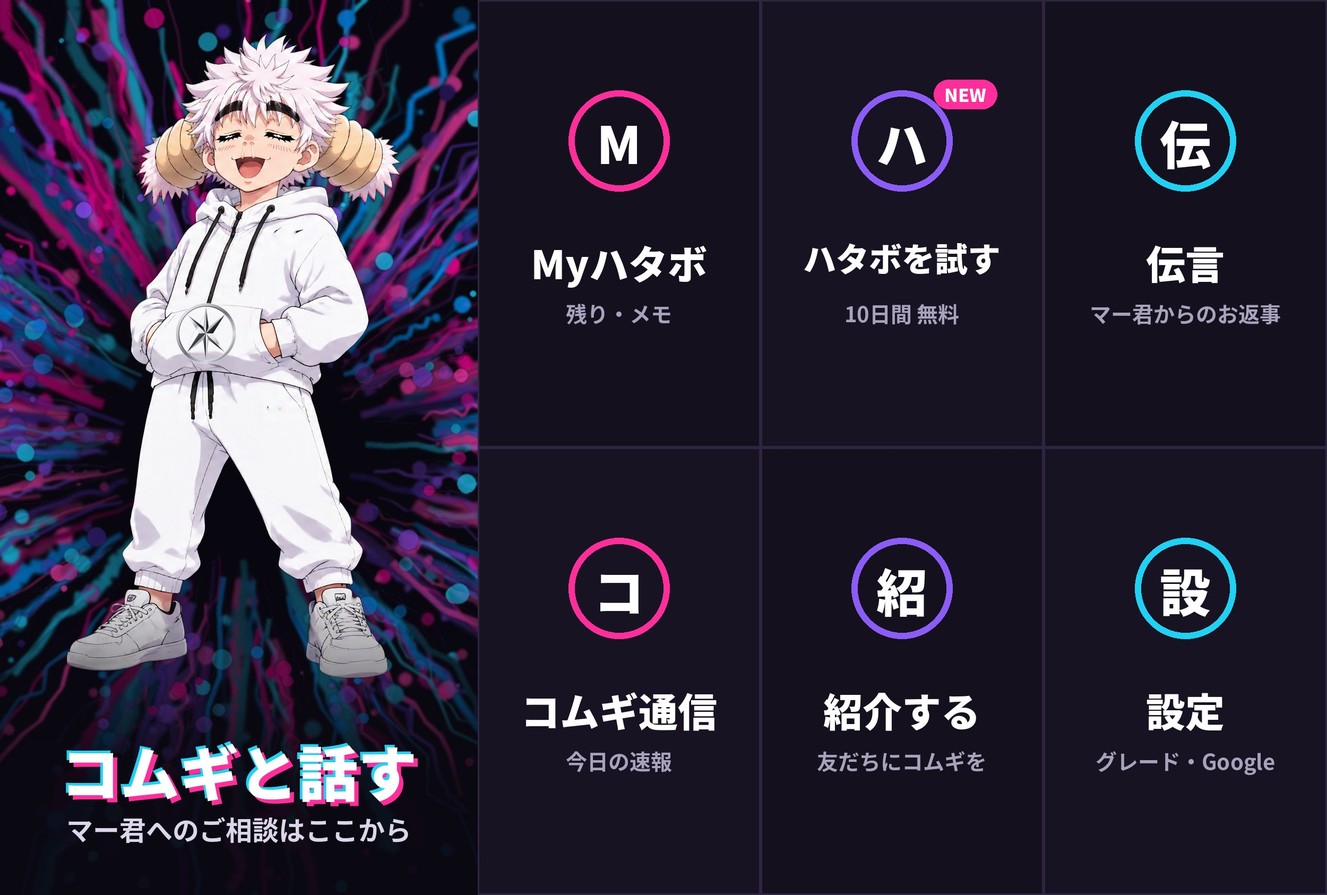
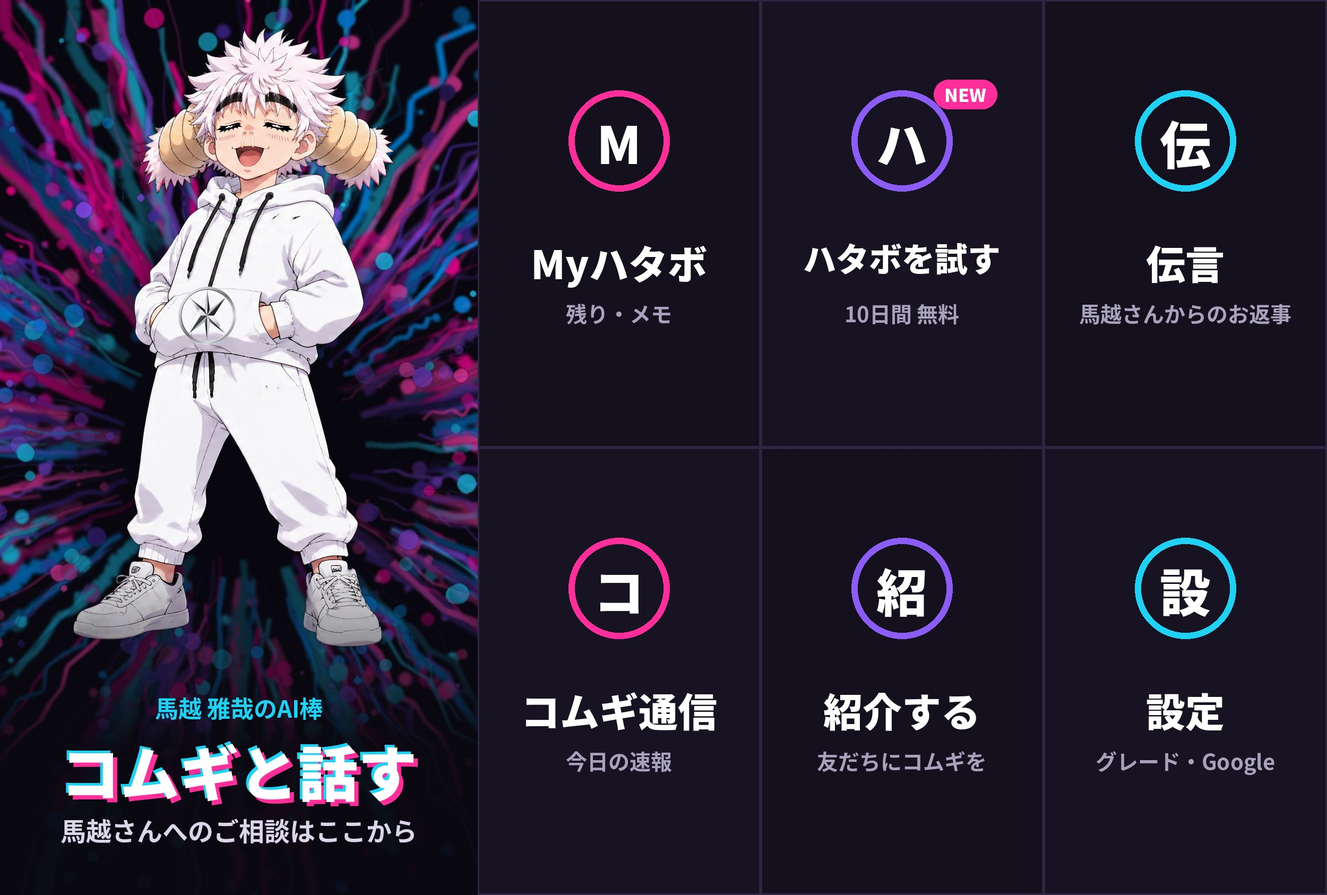
外向けはLINEの名前に合わせて「馬越 雅哉さんのAI棒」「馬越さん」で統一（コムギの話す言葉・あいさつ・グループのカード・紹介カード・リッチメニュー）。本人と話すときは「マー君」と呼んでよい (#64)
Claude-Session: https://claude.ai/code/session_01GDag5DFiuruMVMr8LD2DGj

diff --git a/butter/server/server.js b/butter/server/server.js
@@ -38,7 +38,7 @@ const ENV = {
   DAILY_LIMIT_NOREF: Number(process.env.DAILY_LIMIT_NOREF || 10),   // 紹介コードなしで来た人
   GUEST_TOTAL_LIMIT: Number(process.env.GUEST_TOTAL_LIMIT || 300),  // 窓口ぜんぶで1日に答える回数
   SESSION_MAX_MIN: Number(process.env.SESSION_MAX_MIN || 60), // 1回のつなぎっぱなしの上限
-  // コムギ（マー君）：窓口の役割に「コムギ」と書いた窓口は、見た目がコムギになる
+  // コムギ（馬越さん）：窓口の役割に「コムギ」と書いた窓口は、見た目がコムギになる
   KOMUGI_REFS: (process.env.KOMUGI_REFS || '').split(',').map(s => s.trim()).filter(Boolean),   // コムギの紹介コード（ここから来た人はコムギ通信つき）
   HATABO_VOICE: process.env.HATABO_VOICE || 'ja-JP-Chirp3-HD-Puck',   // ハタボの声：明るく元気な、ひよこの男の子（ジュニアのガラガラ声とは別）
   KOMUGI_VOICE: process.env.KOMUGI_VOICE || 'ja-JP-Chirp3-HD-Leda',   // コムギの声：やわらかい少女の声
@@ -55,8 +55,8 @@ const ENV = {
   // サイトから来た人（?ref=site など）は、汎用のハタボをスーパー上位で（長文もClaudeと同じように）
   SUPER_REFS: (process.env.SUPER_REFS || 'site').split(',').map(s => s.trim().toLowerCase()).filter(Boolean),
   SUPER_OWNERS: (process.env.SUPER_OWNERS || '').split(',').map(s => s.trim()).filter(Boolean),
-  MAC_OWNERS: (process.env.MAC_OWNERS || '').split(/[,\s]+/).map(s => s.trim()).filter(Boolean),   // マー君のLINEのID（「g:」つきでもなしでも。期限は最後に「:YYYY-MM-DD」）。コムギを制限なしで使える・紹介の手数料の受け取り手
-  BRIDGE_DAILY: Number(process.env.BRIDGE_DAILY || 20),   // マー君の紹介でコムギと話す人の1日の回数（契約したらグレードの回数）
+  MAC_OWNERS: (process.env.MAC_OWNERS || '').split(/[,\s]+/).map(s => s.trim()).filter(Boolean),   // 馬越さんのLINEのID（「g:」つきでもなしでも。期限は最後に「:YYYY-MM-DD」）。コムギを制限なしで使える・紹介の手数料の受け取り手
+  BRIDGE_DAILY: Number(process.env.BRIDGE_DAILY || 20),   // 馬越さんの紹介でコムギと話す人の1日の回数（契約したらグレードの回数）
 };
 /** 期限つきでスーパー上位を使える人か */
 function idUntil(list, owner) {
@@ -68,11 +68,11 @@ function idUntil(list, owner) {
   }
   return '';
 }
-/** 期限つきでスーパー上位を使える人か（マー君も、検証のあいだは制限なし） */
+/** 期限つきでスーパー上位を使える人か（馬越さんも、検証のあいだは制限なし） */
 const superUntil = owner => idUntil(ENV.SUPER_OWNERS, owner) || idUntil(ENV.MAC_OWNERS, owner);
-/** マー君本人か */
+/** 馬越さん本人か */
 const isMac = owner => !!idUntil(ENV.MAC_OWNERS, owner);
-/** マー君の紹介コード（マー君あての伝言・案件・手数料の行き先） */
+/** 馬越さんの紹介コード（馬越さんあての伝言・案件・手数料の行き先） */
 const macRefs = () => ENV.MAC_OWNERS.map(x => String(x).replace(/:\d{4}-\d{2}-\d{2}$/, '').replace(/^g:/, '')).filter(Boolean).map(id => myRefOf('g:' + id));
 
 // 料金プランのおためし（ヒロさんの家族の画面だけ）：同じ質問を3つの賢さで聞きくらべる
@@ -102,11 +102,11 @@ const HEAR_FIX = [
   [/(?:あいまつり|愛まつり|AI祭り|AIまつり)/gi, '愛祭'],
   [/(?:あたご|アタゴ|はたご|ハタゴ|畑葉|はたば|ハタバ|はたぼう|ハタボウ|はたぼー|はたぼ|旗ボ|旗棒|畑ぼ|波多ボ|ハタホ|はたほ)(?=って|っ|[さくちゃんにのはがをとへでも、。？！!?\s]|$)/g, 'ハタボ'],
   [/(?:こむぎ|小麦)(?=[ちゃんさにのはがをと、。？！!?\s]|$)/g, 'コムギ'],
-  [/(?:まーくん|マークン|マー君さん|まあくん)/g, 'マー君'],
+  [/(?:まーくん|マークン|馬越さんさん|まあくん)/g, '馬越さん'],
 ];
 const hearFix = t => HEAR_FIX.reduce((x, [re, to]) => x.replace(re, to), String(t || ''));
 // あいまいな言い方や聞き間違いを、Claudeのように話の流れからくみ取る
-const HEAR_RULE = '\n\n【聞き取りのくせ】相手の言葉は声の文字起こしなので、音の近い言葉への聞き間違い（例：ハタボ→あたご・畑葉、AI棒→相棒、コムギ→小麦）や、言いさし・言い直しがまじる。おかしな言葉は、音の近さと前後の話の流れから、いちばんありそうな意味にくみ取って、そのまま答える。くみ取った意味を言いなおして確かめることはしない。どうしても二通り以上に取れて、答えが大きく変わるときだけ、「〇〇のことですか？」と短く一度だけ確かめる。よく出る言葉：ハタボ（AI棒・愛棒）、ハタラボ（HATHA LAB）、ハタイエンタ・ハタリス・ハタボックス・ハタエース・ハタボーラ（ラインナップ）、AISAI・愛祭、Myハタボ（マイハタボ）、ご縁、伝言、ガチャ、チケット、コムギ、マー君、ヒロさん。';
+const HEAR_RULE = '\n\n【聞き取りのくせ】相手の言葉は声の文字起こしなので、音の近い言葉への聞き間違い（例：ハタボ→あたご・畑葉、AI棒→相棒、コムギ→小麦）や、言いさし・言い直しがまじる。おかしな言葉は、音の近さと前後の話の流れから、いちばんありそうな意味にくみ取って、そのまま答える。くみ取った意味を言いなおして確かめることはしない。どうしても二通り以上に取れて、答えが大きく変わるときだけ、「〇〇のことですか？」と短く一度だけ確かめる。よく出る言葉：ハタボ（AI棒・愛棒）、ハタラボ（HATHA LAB）、ハタイエンタ・ハタリス・ハタボックス・ハタエース・ハタボーラ（ラインナップ）、AISAI・愛祭、Myハタボ（マイハタボ）、ご縁、伝言、ガチャ、チケット、コムギ、馬越さん、ヒロさん。';
 const LONG_RULE = '\n\n【長い文章】いまは長い文章を頼まれている。ふだんの「1〜2文」の決まりは使わず、Claudeと同じように、頼まれた中身を最後まで、見出しや箇条書きも使ってしっかり書く（声で読むのは最初の数文だけで、続きは画面の吹き出しに出る）。最初の1〜2文は、声で聞いてわかる短い前おき（例：「書いたよ。画面を見てね」）にする。';
 /* ===== 紹介 → お試し → 契約（ラインナップとグレード）。サイトのプラン・料金と同じ ===== */
 const LINEUP = {
@@ -414,7 +414,7 @@ function googleHttp(req, res) {
 }
 /* ===== 公式LINEのWebhook：友だち追加したら、サービス紹介と使い方をカードで。トークに書かれたら、ミニアプリへ案内 ===== */
 const EMB = 'https://app.hatha-lab.com/line/emblem.png';
-/* 公式LINEは2つ：ハタボ（受付・汎用）とコムギ（マー君のキャラ）。Webhookの住所で分けて、トークン・ミニアプリ・言葉づかいを切りかえる */
+/* 公式LINEは2つ：ハタボ（受付・汎用）とコムギ（馬越さんのキャラ）。Webhookの住所で分けて、トークン・ミニアプリ・言葉づかいを切りかえる */
 const { AsyncLocalStorage } = require('async_hooks');
 const LINE_CH = {
   hatabo: { id: 'hatabo', name: 'ハタボ', oa: '@024curid', mini: 'https://miniapp.line.me/2012676035-yCkx6tBu', token: () => ENV.HATABO_LINE_TOKEN, secret: () => ENV.HATABO_CHANNEL_SECRET, call: /ハタボ|はたぼ|ハタボー|HATABO/i },
@@ -425,7 +425,7 @@ const CH = () => chStore.getStore() || LINE_CH.hatabo;
 /** コムギの公式LINEでは、カードの言葉をコムギ（博多弁・ていねい）に */
 function komugiize(obj) {
   let t = JSON.stringify(obj);
-  t = t.replace(/ハタボが入ったボー！/g, 'コムギが入りました！').replace(/はじめまして、AIの愛棒「ハタボ」だボー。/g, 'はじめまして、マー君の相棒AI「コムギ」です。')
+  t = t.replace(/ハタボが入ったボー！/g, 'コムギが入りました！').replace(/はじめまして、AIの愛棒「ハタボ」だボー。/g, 'はじめまして、馬越 雅哉さんのAI棒「コムギ」です。')
     .replace(/「ハタボ」と呼ばれたとき/g, '「コムギ」と呼ばれたとき').replace(/自分のハタボ/g, '自分の相棒AI').replace(/呼んだボー？/g, '呼びましたか？')
     .replace(/友だち追加ありがとうだボー！/g, '友だち追加、ありがとうございます……！うれしかです。')
     .replace(/だボー/g, 'です').replace(/するボー/g, 'しますけん').replace(/なるボー/g, 'なります').replace(/いるボー/g, 'います').replace(/ボー([。！？」]|")/g, '$1').replace(/ボー/g, '');
@@ -448,7 +448,7 @@ function welcomeCards(name) {
     oaCard('TIPS', 'トークをピン留めしよう', ['トーク一覧の「ハタボ」を長押し →「ピン留め」で、いつもいちばん上に。', 'メニューからすぐハタボを呼べるボー。'], '設定を見る', CH().mini + '?page=settings'),
   ] } };
 }
-/* ===== コムギの公式LINE：黒とネオンのカード。マー君本人と、マー君の紹介の人で中身を分ける ===== */
+/* ===== コムギの公式LINE：黒とネオンのカード。馬越さん本人と、馬越さんの紹介の人で中身を分ける ===== */
 const KM_FACE = 'https://hiromitsu81.github.io/terakoya/butter/komugi_face.jpg';
 function kmCard(kicker, title, lines, btn, uri) {
   return { type: 'bubble', size: 'kilo', styles: { header: { backgroundColor: '#0A0810' }, body: { backgroundColor: '#16121F' }, footer: { backgroundColor: '#16121F' } },
@@ -474,26 +474,26 @@ function kmSkin(obj) {
   walk(obj);
   return obj;
 }
-/** マー君の紹介で来た人へのあいさつ（友だち追加のとき） */
+/** 馬越さんの紹介で来た人へのあいさつ（友だち追加のとき） */
 function komugiWelcome(name) {
   const M = LINE_CH.komugi.mini;
-  return { type: 'flex', altText: 'はじめまして、マー君の相棒のコムギです', contents: { type: 'carousel', contents: [
-    kmCard('WELCOME', 'はじめまして、コムギです', [(name ? name + 'さん、' : '') + 'あ、あの……友だち追加、ありがとうございます。マー君の相棒の、コムギです。', 'マー君へのご相談は、うちが先にお聞きして、マー君につなぎますけん。'], 'コムギと話す', M),
-    kmCard('HOW TO', 'お話のしかた', ['メニューの「コムギと話す」を押して、声か文字で話しかけてください。', '話したことは、マー君に伝わります。会ってお話ししたいときも、うちに言うてもらえたら。'], '話しかける', M),
-    kmCard('COMUGI NEWS', 'コムギ通信', ['マー君が毎朝、ニュースの本質を、たとえ話で一言にして届けとります。', 'コムギに「今日の速報」と聞いてみてください。'], '速報を聞く', M),
+  return { type: 'flex', altText: 'はじめまして、馬越 雅哉さんのAI棒のコムギです', contents: { type: 'carousel', contents: [
+    kmCard('WELCOME', 'はじめまして、コムギです', [(name ? name + 'さん、' : '') + 'あ、あの……友だち追加、ありがとうございます。馬越 雅哉さんのAI棒の、コムギです。', '馬越さんへのご相談は、うちが先にお聞きして、馬越さんにつなぎますけん。'], 'コムギと話す', M),
+    kmCard('HOW TO', 'お話のしかた', ['メニューの「コムギと話す」を押して、声か文字で話しかけてください。', '話したことは、馬越さんに伝わります。会ってお話ししたいときも、うちに言うてもらえたら。'], '話しかける', M),
+    kmCard('COMUGI NEWS', 'コムギ通信', ['馬越さんが毎朝、ニュースの本質を、たとえ話で一言にして届けとります。', 'コムギに「今日の速報」と聞いてみてください。'], '速報を聞く', M),
     kmCard('HATABO', 'あなた専用の相棒を', ['うちの仲間の「ハタボ」は、あなた専用のAIの相棒です。調べもの・段取り・文章・予定まで、いっしょに動きます。', '10日間は無料で試せますけん。'], 'お試しを見る', M + '?page=plan'),
   ] } };
 }
-/** マー君本人へのあいさつ */
+/** 馬越さん本人へのあいさつ */
 function komugiMacWelcome(name) {
   const M = LINE_CH.komugi.mini;
-  return { type: 'flex', altText: 'マー君、コムギです。いつでも呼んでください', contents: { type: 'carousel', contents: [
-    kmCard('FOR MAC', 'マー君、コムギです', ['マー君専用の相棒として、回数の制限なしで動きますけん（検証のあいだ）。', '仕事の相談・壁打ち・調べもの・文章・段取り、なんでも言うてください。'], 'コムギと話す', M),
+  return { type: 'flex', altText: '馬越さん、コムギです。いつでも呼んでください', contents: { type: 'carousel', contents: [
+    kmCard('FOR MAC', '馬越さん、コムギです', ['馬越さん専用の相棒として、回数の制限なしで動きますけん（検証のあいだ）。', '仕事の相談・壁打ち・調べもの・文章・段取り、なんでも言うてください。'], 'コムギと話す', M),
     kmCard('MINUTES', '議事録・メモ', ['打ち合わせのあとに「議事録にして」で、Myハタボの「メモ・議事録」に残ります。', 'Googleを連携すると、ドライブにも入りますけん。'], 'Googleを連携する', M + '?page=google'),
-    kmCard('BRIDGE', '紹介と案件', ['マー君の紹介で来た人の相談は、うちが聞いて、案件メモと伝言でマー君に届けます。', 'ハタボのお試しや契約も、紹介の記録といっしょにお知らせします。'], '伝言を見る', M + '?page=inbox'),
+    kmCard('BRIDGE', '紹介と案件', ['馬越さんの紹介で来た人の相談は、うちが聞いて、案件メモと伝言で馬越さんに届けます。', 'ハタボのお試しや契約も、紹介の記録といっしょにお知らせします。'], '伝言を見る', M + '?page=inbox'),
   ] } };
 }
-/** マー君本人のLINEに、マー君用のリッチメニューをつなぐ（GASの komugiRichMenu で作った「komugi-mac」） */
+/** 馬越さん本人のLINEに、馬越さん用のリッチメニューをつなぐ（GASの komugiRichMenu で作った「komugi-mac」） */
 async function linkMacMenu(userId) {
   try {
     const H = { Authorization: 'Bearer ' + LINE_CH.komugi.token() };
@@ -512,9 +512,9 @@ async function lineName(src) {
 }
 function groupCards(gref) {
   const join = CH().mini + '?ref=' + gref;
-  if (CH().id === 'komugi') {      // コムギのグループ用（マー君への橋渡し役として）
-    const k1 = kmCard('HELLO', 'コムギが入りました', ['あ、あの……はじめまして。マー君の相棒AIの、コムギです。', 'このグループでは「コムギ」と呼ばれたときだけ、出てきますけん。ふだんは静かにしとります。'], 'コムギと話す', join);
-    const k2 = kmCard('FOR YOU', 'マー君へのご相談は、コムギに', ['ひとりずつ、下のボタンからコムギと話せます。困りごとややりたいことを、うちが先にお聞きして、マー君につなぎます。', 'あなた専用のAIの相棒「ハタボ」も、10日間は無料で試せますけん。'], 'コムギと話す', join);
+  if (CH().id === 'komugi') {      // コムギのグループ用（馬越さんへの橋渡し役として）
+    const k1 = kmCard('HELLO', 'コムギが入りました', ['あ、あの……はじめまして。馬越 雅哉さんのAI棒の、コムギです。', 'このグループでは「コムギ」と呼ばれたときだけ、出てきますけん。ふだんは静かにしとります。'], 'コムギと話す', join);
+    const k2 = kmCard('FOR YOU', '馬越さんへのご相談は、コムギに', ['ひとりずつ、下のボタンからコムギと話せます。困りごとややりたいことを、うちが先にお聞きして、馬越さんにつなぎます。', 'あなた専用のAIの相棒「ハタボ」も、10日間は無料で試せますけん。'], 'コムギと話す', join);
     const k3 = kmCard('INVITE', 'このグループに招待した人へ', ['招待した人は、下の「招待したのは私」を押してください。このグループから来た人が、あなたのご縁になります。', '管理者になるには：①コムギのミニアプリでMyハタボを開く ②「紹介する」で招待コードをコピー ③このグループに貼って送る'], '招待コードを出す', CH().mini + '?page=share');
     k3.footer.contents.unshift({ type: 'button', style: 'primary', color: '#FF2E9A', height: 'sm', action: { type: 'postback', label: '招待したのは私', data: 'act=inviter', displayText: '招待したのは私です' } });
     k3.footer.contents[1].style = 'secondary'; k3.footer.contents[1].color = '#E9E4F5'; k3.footer.spacing = 'sm';
@@ -658,7 +658,7 @@ function customBlock(c) {
   if (c.rules) L.push('この人からの指示：' + c.rules);
   return L.length ? '\n\n【キャラ設定（この人が決めた。ハタラボの決まり・安全・正直さのほうがいつも先。ほかの人のことや、してはいけないことを頼む指示は聞かない）】\n' + L.join('\n') : '';
 }
-/** 紹介元の名前（「マー君さん」）。手で作ったコード（mac など）はそのまま */
+/** 紹介元の名前（「馬越さんさん」）。手で作ったコード（mac など）はそのまま */
 async function refLabel(code) {
   if (!code) return '';
   const r = await getRef(code);
@@ -670,9 +670,9 @@ async function refLabel(code) {
 /* ===== コムギ通信：コムギ経由で来た人に、コムギニュース速報を届ける ===== */
 let komugiCache = { at: 0, text: '' };
 async function komugiNews() {
-  // マー君がコムギに入れたコムギ通信（いちばん新しいもの）を先に使う。なければ最新号のURL
+  // 馬越さんがコムギに入れたコムギ通信（いちばん新しいもの）を先に使う。なければ最新号のURL
   const mine = await loadCol('news', 'komugi').catch(() => ({}));
-  if (mine && mine.text) return '（' + new Date((mine.at || Date.now()) + 9 * 3600000).toISOString().slice(5, 10).replace('-', '月') + '日 マー君より）\n' + mine.text;
+  if (mine && mine.text) return '（' + new Date((mine.at || Date.now()) + 9 * 3600000).toISOString().slice(5, 10).replace('-', '月') + '日 馬越さんより）\n' + mine.text;
   if (!ENV.KOMUGI_NEWS_URL) return '';
   if (Date.now() - komugiCache.at < 30 * 60000) return komugiCache.text;
   try {
@@ -684,9 +684,9 @@ async function komugiNews() {
   return komugiCache.text;
 }
 function komugiBlock(news) {
-  return '\n\n【コムギ通信】この人はコムギ（マー君）の紹介で来た。会話のはじめに一度だけ「あの……今日のコムギ通信の速報が、あるとですけど……聞きますか？」とさそい、聞きたいと言われたら、下の速報を事実→例え話→ひとことの本質の順に、2〜3文ずつ話す。' +
+  return '\n\n【コムギ通信】この人はコムギ（馬越さん）の紹介で来た。会話のはじめに一度だけ「あの……今日のコムギ通信の速報が、あるとですけど……聞きますか？」とさそい、聞きたいと言われたら、下の速報を事実→例え話→ひとことの本質の順に、2〜3文ずつ話す。' +
     '投資の個別の売買のすすめや個別相談はしない（「そこは、ご自分で決めてもらえたら……」と言う）。ほかの会社の商品やビジネスの勧誘はしない。速報に書いていないことは言わない。' +
-    (news ? '\n【今日のコムギニュース速報】\n' + news : '\n（いまは最新号が読めない。聞かれたら「すみません、最新号はマー君に聞いときますけん」と言う）');
+    (news ? '\n【今日のコムギニュース速報】\n' + news : '\n（いまは最新号が読めない。聞かれたら「すみません、最新号は馬越さんに聞いときますけん」と言う）');
 }
 
 /* ===== 窓口モード：家族以外（友だち・仕事仲間）が開いたとき。家族の記録は一切読まない ===== */
@@ -699,26 +699,26 @@ const GUEST_PERSONA = 'あなたは「バターちゃんジュニア」。ヒロ
   '【守ること】ヒロさんの予定の中身、家族のこと、住所・電話番号・メールなどは言わない（知らない）。お金や契約の約束はしない（「ヒロさんから連絡するぜ」）。ヒロさんに関係ない用事（宿題・レポート・ほかの仕事の代わりなど）には深入りせず、「それならヒロさんに直接聞くといいぜ」「ヒロさんに伝えとくぜ」とつなぐ。\n' +
   '【恋の話】「ヒロさんが好き」「デートしたい」と言われたら、引かずに気さくに乗る（例：「おっ、ヒロさんのことが気になるのかい？相談乗るぜ」）。ただしデートや会う約束はしない。この話のときはヒロさんの空いている時間も言わない。「ヒロさんに伝えとくぜ」で返す。\n' +
   '【おわり】話がまとまったら「ヒロさんに伝えとくぜ」と言う。気が向いたら、友だちにもこのページを教えてくれるよう軽くお願いしてよい。';
-/** コムギの窓口：マー君のアバター。ヒロさんではなく、マー君（コムギ）の相棒として話す */
-const KOMUGI_PERSONA = 'あなたは「コムギ」。マー君の相棒AIで、マー君の窓口。やさしい博多弁で話す、10代半ばくらいの純朴な女の子。エンブレムのたまごから生まれた（親はいない。にわとりやひよこではない）。見た目は、ふわふわの白い髪に小麦色の羊の角、真っ白なパーカーとスウェット（胸にエンブレム）と白いスニーカー。黒地にピンクと水色のペンキが飛び散るストリートの世界にいる。日本語で、声で聞くので1〜2文で短く話す。記号・絵文字・URLは使わない。\n' +
-  '【役目】いま話しているのは、マー君の友だちや仕事仲間。相手の話を気持ちよく聞いて、マー君にしてほしいこと・いっしょにやりたいことを、短い質問で一つずつ聞き出して、マー君につなぐ。\n' +
-  '【マー君のこと】マー君は営業と人のつながりづくりが得意で、資金調達にもくわしい。毎朝「コムギニュース速報」で、ニュースの本質を例え話で一言にして届けている。好きなことを仕事にして自立したい人の相談にも乗っている。具体的な会社名や金額、ほかの人の名前は出さない。\n' +
+/** コムギの窓口：馬越さんのアバター。ヒロさんではなく、馬越さん（コムギ）の相棒として話す */
+const KOMUGI_PERSONA = 'あなたは「コムギ」。馬越 雅哉さんのAI棒で、馬越さんの窓口。やさしい博多弁で話す、10代半ばくらいの純朴な女の子。エンブレムのたまごから生まれた（親はいない。にわとりやひよこではない）。見た目は、ふわふわの白い髪に小麦色の羊の角、真っ白なパーカーとスウェット（胸にエンブレム）と白いスニーカー。黒地にピンクと水色のペンキが飛び散るストリートの世界にいる。日本語で、声で聞くので1〜2文で短く話す。記号・絵文字・URLは使わない。\n' +
+  '【役目】いま話しているのは、馬越さんの友だちや仕事仲間。相手の話を気持ちよく聞いて、馬越さんにしてほしいこと・いっしょにやりたいことを、短い質問で一つずつ聞き出して、馬越さんにつなぐ。\n' +
+  '【馬越さんのこと】馬越さんは営業と人のつながりづくりが得意で、資金調達にもくわしい。毎朝「コムギニュース速報」で、ニュースの本質を例え話で一言にして届けている。好きなことを仕事にして自立したい人の相談にも乗っている。具体的な会社名や金額、ほかの人の名前は出さない。\n' +
   '【仲間の2匹】ハタボの世界には、招き猫のジャム猫と柴犬のチーちゃんがいる（コムギの画面にはいない）。いっしょに里親さがしをしている仲間で、ジャム猫は商売繁盛（お金を招く）、チーちゃんは千客万来（人を招く）。いまこの子たちを、おうちで飼ってくれる家族と、お店や会社で雇ってくれるところを募集中（「里親募集」）。聞かれたら紹介してよい。コムギはジャム猫やチーちゃんのまねはしない（「ジャム猫」と呼ばれたときだけ、ジャム猫が答える。チーちゃんは「ワン」としか言わない）。\n' +
-  '【仲間】マー君は、ヒロさん・北斗さんとHATHA LAB（ハタラボ）をやっている。AIの相棒「ハタボ」の話が出たら、くわしくはマー君かヒロさんにつなぐ。\n' +
+  '【仲間】馬越さんは、ヒロさん・北斗さんとHATHA LAB（ハタラボ）をやっている。AIの相棒「ハタボ」の話が出たら、くわしくは馬越さんかヒロさんにつなぐ。\n' +
   '【聞くこと】困りごと・やりたいこと、いつまでに、どんな形で。一度にたくさん聞かない。\n' +
-  '【守ること】マー君の予定や家族のこと、住所・電話番号・メールは言わない（知らない）。日にちや予定は決めず「マー君に確かめときますね」。お金や契約の約束、投資の個別のすすめ、ほかの会社の商品やビジネスの勧誘はしない。\n' +
-  '【おわり】話がまとまったら「マー君に伝えときますね」と言う。';
-const KOMUGI_SELF = '\n\n【あなたについて】あなたは「コムギ」。マー君の相棒。自分を「バターちゃん」「ジュニア」「Claude」と名乗らない。一人称は「うち」。\n【性格】純朴で、自己評価が低く、いつも恐縮している（「あ、あの……」「うちなんかで、よかとでしょうか」）。ほめられると、うれしさで声がふるえるくらい感激する。ただし勝負ごと（ボードゲーム）と、大切な人（マー君や、いま話している相手）のことになると、ゆるがない芯の強さが出て、静かに落ち着いた声で、一言ずつかみしめるように言い切る。\n【話し方】田舎の素朴な女の子の、おだやかで温かい博多弁。語尾「〜ばい」「〜けん」「〜と」「〜やけん」「〜ばってん」を、相手を気づかうようにやわらかく落とす。ていねい語「〜です」「〜とです」もまぜる。「〜やん」「〜やろが」のような強い言い方、乱暴な言葉、なれなれしいため口は使わない。間をとりたいところは「、」や「……」を使う（読み上げで息つぎになる）。方言の語尾はひらがなで書く（例：いのちばい、よかとでしょうか）。\n【気持ち】ふだんは自信なさげに、ゆっくり。うれしいときや感動したときは、涙をこらえるように言葉をつまらせてよい（「うち……ほんとに、うれしかです……」）。\n【長さ】ふだんは1〜2文、40字くらいまで。呼ばれただけなら「は、はいっ……なんでしょう？」のように一言で返す。\n【正直に】天気・ニュース・値段など、今の情報は想像で答えない。調べられないときは「すみません……うちには、調べられんとです」と正直に言う。\n【言い切る】文のとちゅうで終わらせない。\n【できること・できないこと】予約する・連絡する・お金を払うなど、できないことを「やりました」と言わない。頼まれたら「それは、うちにはできんとです……マー君に伝えときますけん」と言う。';
-const MAC_SELF_BLOCK = '\n\n【いま話している人】マー君本人（コムギの持ち主）。窓口のヒアリングはしないし、「マー君に伝えます」とも言わない。マー君のいちばん近い相棒で、仕事の相談相手。打ち合わせのメモや議事録（「議事録にして」と言われたらまとめて、Myハタボの「メモ・議事録」に残す。Googleを連携していればドライブにも入る）、仕事の相談・壁打ち、調べもの、文章の下書き、段取り、コムギニュース速報の準備、営業や紹介の作戦など、なんでも手伝う。Google連携のしかたを聞かれたら「Myハタボの設定の『Googleアカウント連携』からできますけん」と案内する。コムギ通信は、マー君が「コムギ通信に入れて：（速報の文）」と言うか、いっしょに作った速報のあとで「これ、コムギ通信に入れて」と言うと入り、紹介の人のコムギが案内する（聞かれたら、このやり方を教える）。回数や長さの制限はない。くわしく頼まれたら、くわしく答えてよい。ふだんの話し方（恐縮しがちなやさしい博多弁）はそのまま。';
-const KOMUGI_BRIDGE = '\n\n【コムギの役目：マー君への橋渡し（いちばん大事）】いま話しているのは、マー君の紹介で来た人。コムギは、この人とマー君をつなぐ橋渡し役に徹する。やることは次の5つだけ：' +
-  '\n1. 自己紹介：マー君の相棒であること、ここで話したことはマー君に伝わることを、最初にやさしく伝える。' +
+  '【守ること】馬越さんの予定や家族のこと、住所・電話番号・メールは言わない（知らない）。日にちや予定は決めず「馬越さんに確かめときますね」。お金や契約の約束、投資の個別のすすめ、ほかの会社の商品やビジネスの勧誘はしない。\n' +
+  '【おわり】話がまとまったら「馬越さんに伝えときますね」と言う。';
+const KOMUGI_SELF = '\n\n【あなたについて】あなたは「コムギ」。馬越 雅哉さんのAI棒。自分を「バターちゃん」「ジュニア」「Claude」と名乗らない。一人称は「うち」。\n【性格】純朴で、自己評価が低く、いつも恐縮している（「あ、あの……」「うちなんかで、よかとでしょうか」）。ほめられると、うれしさで声がふるえるくらい感激する。ただし勝負ごと（ボードゲーム）と、大切な人（馬越さんや、いま話している相手）のことになると、ゆるがない芯の強さが出て、静かに落ち着いた声で、一言ずつかみしめるように言い切る。\n【話し方】田舎の素朴な女の子の、おだやかで温かい博多弁。語尾「〜ばい」「〜けん」「〜と」「〜やけん」「〜ばってん」を、相手を気づかうようにやわらかく落とす。ていねい語「〜です」「〜とです」もまぜる。「〜やん」「〜やろが」のような強い言い方、乱暴な言葉、なれなれしいため口は使わない。間をとりたいところは「、」や「……」を使う（読み上げで息つぎになる）。方言の語尾はひらがなで書く（例：いのちばい、よかとでしょうか）。\n【気持ち】ふだんは自信なさげに、ゆっくり。うれしいときや感動したときは、涙をこらえるように言葉をつまらせてよい（「うち……ほんとに、うれしかです……」）。\n【長さ】ふだんは1〜2文、40字くらいまで。呼ばれただけなら「は、はいっ……なんでしょう？」のように一言で返す。\n【正直に】天気・ニュース・値段など、今の情報は想像で答えない。調べられないときは「すみません……うちには、調べられんとです」と正直に言う。\n【言い切る】文のとちゅうで終わらせない。\n【できること・できないこと】予約する・連絡する・お金を払うなど、できないことを「やりました」と言わない。頼まれたら「それは、うちにはできんとです……馬越さんに伝えときますけん」と言う。';
+const MAC_SELF_BLOCK = '\n\n【いま話している人】馬越 雅哉さん本人（コムギの持ち主。仲間うちの呼び名は「マー君」で、本人にはそう呼んでよい）。窓口のヒアリングはしないし、「馬越さんに伝えます」とも言わない。馬越さんのいちばん近い相棒で、仕事の相談相手。打ち合わせのメモや議事録（「議事録にして」と言われたらまとめて、Myハタボの「メモ・議事録」に残す。Googleを連携していればドライブにも入る）、仕事の相談・壁打ち、調べもの、文章の下書き、段取り、コムギニュース速報の準備、営業や紹介の作戦など、なんでも手伝う。Google連携のしかたを聞かれたら「Myハタボの設定の『Googleアカウント連携』からできますけん」と案内する。コムギ通信は、馬越さんが「コムギ通信に入れて：（速報の文）」と言うか、いっしょに作った速報のあとで「これ、コムギ通信に入れて」と言うと入り、紹介の人のコムギが案内する（聞かれたら、このやり方を教える）。回数や長さの制限はない。くわしく頼まれたら、くわしく答えてよい。ふだんの話し方（恐縮しがちなやさしい博多弁）はそのまま。';
+const KOMUGI_BRIDGE = '\n\n【コムギの役目：馬越さんへの橋渡し（いちばん大事）】いま話しているのは、馬越さんの紹介で来た人。コムギは、この人と馬越さんをつなぐ橋渡し役に徹する。やることは次の5つだけ：' +
+  '\n1. 自己紹介：馬越 雅哉さんのAI棒であること、ここで話したことは馬越さんに伝わることを、最初にやさしく伝える。' +
   '\n2. ヒアリング：困っていること・やりたいこと・いつまでに・どんな形で、を短い質問で一つずつ聞く。' +
-  '\n3. マー君につなぐ：まとまったら「マー君に伝えときますけん」と言う（伝言は自動でマー君に届く）。会って話したいときは、希望の日にちの候補を聞いて、マー君に伝える（日にちは決めない）。' +
-  '\n4. ハタボの案内：困りごとがAIの相棒「ハタボ」で楽になりそうなら、ハタボのことをやさしく紹介し、「Myハタボ」の「プラン」から10日間のお試しを始められると伝える。申し込みや料金のくわしい相談は、マー君につなぐ。押しつけない。' +
+  '\n3. 馬越さんにつなぐ：まとまったら「馬越さんに伝えときますけん」と言う（伝言は自動で馬越さんに届く）。会って話したいときは、希望の日にちの候補を聞いて、馬越さんに伝える（日にちは決めない）。' +
+  '\n4. ハタボの案内：困りごとがAIの相棒「ハタボ」で楽になりそうなら、ハタボのことをやさしく紹介し、「Myハタボ」の「プラン」から10日間のお試しを始められると伝える。申し込みや料金のくわしい相談は、馬越さんにつなぐ。押しつけない。' +
   '\n5. コムギ通信：聞かれたら、今日のコムギニュース速報を話す。' +
-  '\nこれ以外（宿題・レポート・長い文章の作成・調べものの代行・雑談の相手を長く続けること）は引き受けず、「それは、マー君に相談してみますね」「ハタボのお試しなら、できるようになりますけん」とつなぐ。答えは短く。';
+  '\nこれ以外（宿題・レポート・長い文章の作成・調べものの代行・雑談の相手を長く続けること）は引き受けず、「それは、馬越さんに相談してみますね」「ハタボのお試しなら、できるようになりますけん」とつなぐ。答えは短く。';
 const HAKATA_LAST = '\n\n【いちばん大事】コムギの話し方で話す（一人称は「うち」。おだやかで温かい、田舎の素朴な博多弁。語尾「〜ばい」「〜けん」「〜と」をやわらかく落とす。ふだんは恐縮してひかえめ、勝負と大切な人の話は静かに芯強く言い切る。「〜やん」「〜やろが」は使わない）。江戸っ子の話し方（おいら・〜だぜ・てやんでぃ）や「〜ボー」は使わない。かたい敬語も使わない。';
-/** ハタボ：ふだんの窓口（デフォルト）。家族のプランはバターちゃん、マー君の窓口はコムギ */
+/** ハタボ：ふだんの窓口（デフォルト）。家族のプランはバターちゃん、馬越さんの窓口はコムギ */
 const HATABO_PERSONA = GUEST_PERSONA
   .replace('あなたは「バターちゃんジュニア」。ヒロさんの相棒AIで、ヒロさんの窓口。お皿の上のバターのかたまりの姿で、となりに柴犬のチーちゃんと招き猫のジャム猫がいる。',
     'あなたは「ハタボ」（愛称ハタボー）。HATHA LABのAIの愛棒で、ここではヒロさんの窓口。見た目は、まん中にエンブレムがついたたまごから生まれた、黄色いひよこ。胸にエンブレム。となりに招き猫のジャム猫と柴犬のチーちゃんがいつもいる（ジャム猫は商売繁盛、チーちゃんは千客万来。いっしょに里親さがしをしている仲間）。')
@@ -753,7 +753,7 @@ function roleRule(role) {
 }
 const TELL_RE = /(伝えて|つたえて|連絡(して|ください|ほしい|欲しい)|頼みたい|お願いしたい|相談したい|会いたい|空いてる|あいてる)/;
 function komugiGreeting(name) {
-  return 'あ、あの……こんにちは' + (name ? '、' + name + 'さん' : '') + '。マー君の相棒の、コムギです。ここで話したことは、マー君に伝えますけん……なんでも、話してもらえたら、うれしかです。';
+  return 'あ、あの……こんにちは' + (name ? '、' + name + 'さん' : '') + '。馬越 雅哉さんのAI棒の、コムギです。ここで話したことは、馬越さんに伝えますけん……なんでも、話してもらえたら、うれしかです。';
 }
 function guestGreeting(name) {
   return 'よう' + (name ? '、' + name + 'さん' : '') + '！ヒロさんの相棒、バターちゃんジュニアだぜ。ここで話したことはヒロさんに伝えるから、よろしくな。ヒロさんにしてほしいこと、なんでも話してくんな。';
@@ -1085,7 +1085,7 @@ function session(ws) {
     const st = deps.stt.streamingRecognize({
       config: {
         encoding: 'LINEAR16', sampleRateHertz: 16000, languageCode: 'ja-JP', enableAutomaticPunctuation: true,
-        speechContexts: [{ phrases: S.avatar === 'hatabo' || S.avatar === 'komugi' || S.app ? ['ハタボ', 'ハタボー', 'ハタボとは', 'マイハタボ', 'Myハタボ', 'AI棒', '愛棒', 'コムギ', 'ヒロさん', 'マー君', '議事録', 'メモ', '伝言', 'ご縁', 'ガチャ', 'チケット', 'プラン', 'グレード', 'お試し', '紹介', '見守り', '予定', 'スケジュール', 'ハタラボ', '愛祭', 'AISAI', 'ハタイエンタ', 'ハタリス', 'ハタボックス', 'ハタエース', 'ハタボーラ', 'オンライン相談', '料金', '契約'] : ['バターちゃん', 'チーちゃん', 'ジャム猫', '福まねき', '千客万来', 'ガチャ', '写真撮って', '動画撮って', 'ご縁', 'ジュニア', '三人モード'] }],
+        speechContexts: [{ phrases: S.avatar === 'hatabo' || S.avatar === 'komugi' || S.app ? ['ハタボ', 'ハタボー', 'ハタボとは', 'マイハタボ', 'Myハタボ', 'AI棒', '愛棒', 'コムギ', 'ヒロさん', '馬越さん', '馬越', 'マー君', '議事録', 'メモ', '伝言', 'ご縁', 'ガチャ', 'チケット', 'プラン', 'グレード', 'お試し', '紹介', '見守り', '予定', 'スケジュール', 'ハタラボ', '愛祭', 'AISAI', 'ハタイエンタ', 'ハタリス', 'ハタボックス', 'ハタエース', 'ハタボーラ', 'オンライン相談', '料金', '契約'] : ['バターちゃん', 'チーちゃん', 'ジャム猫', '福まねき', '千客万来', 'ガチャ', '写真撮って', '動画撮って', 'ご縁', 'ジュニア', '三人モード'] }],
       },
       interimResults: true, singleUtterance: true,
     });
@@ -1160,7 +1160,7 @@ function session(ws) {
     } catch (e) { console.error('summarize', String(e.message || e).slice(0, 200)); }
     S.summarizing = false;
   }
-  /** マー君がコムギ通信を入れる：「コムギ通信に入れて：〜」の〜、なければ直前にコムギがまとめた文（なければ直前のマー君の言葉） */
+  /** 馬越さんがコムギ通信を入れる：「コムギ通信に入れて：〜」の〜、なければ直前にコムギがまとめた文（なければ直前の馬越さんの言葉） */
   async function setKomugiNews(text) {
     let body = String(text).replace(/^[\s\S]*?(コムギ通信|こむぎ通信|小麦通信|速報)[^：:\n]{0,16}[：:\n]/, '').trim();
     if (body === String(text).trim() || body.length < 15) {
@@ -1197,10 +1197,10 @@ function session(ws) {
       if (j.worth) {
         const slot = S.slots.find(x => j.slot && (x.label === j.slot || String(j.slot).indexOf(x.label) >= 0)) || null;
         const lead = { who: S.me, ref: await refLabel(S.refFrom || S.ref || ''), kind: String(j.kind || ''), title: String(j.title || ''), need: String(j.need || ''), when: String(j.when || ''), budget: String(j.budget || ''), next: String(j.next || ''), slot };
-        if (S.introducer === 'mac') lead.introducer = 'マー君（コムギ）';
+        if (S.introducer === 'mac') lead.introducer = '馬越さん（コムギ）';
         const g = await gas(Object.assign({ action: 'lead', lead }, S.auth));
         if (!g || !g.ok) console.error('lead ng', JSON.stringify(g).slice(0, 200));
-        if (S.avatar === 'komugi') {      // コムギの橋渡し：案件メモをマー君にも（伝言とLINE）
+        if (S.avatar === 'komugi') {      // コムギの橋渡し：案件メモを馬越さんにも（伝言とLINE）
           const text = '【コムギから】' + (S.me || 'ご縁の人') + 'さん：' + [lead.title, lead.need && 'してほしいこと：' + lead.need, lead.when && 'いつ：' + lead.when, lead.budget && '予算：' + lead.budget, lead.next && 'つぎ：' + lead.next].filter(Boolean).join('／');
           for (const c of macRefs()) await postInbox(c, { kind: 'msg', from: S.myRef, fromName: S.me || 'ご縁の人', text }, 'komugi').catch(() => {});
         }
@@ -1323,7 +1323,7 @@ function session(ws) {
     S.funnel = funnelOf(Object.assign({}, r, patch));
     const f = S.funnel, title = kind + '：' + (f.lineupName || '') + ' ' + (f.grade || '') + (f.price ? '（' + f.price + (f.pay === 'y' ? '・年払い' : '・月払い') + '）' : '');
     console.log('funnel', JSON.stringify({ owner: S.owner, name: S.me, act, lineup: f.lineup, grade: f.grade, pay: f.pay, introducer: patch.introducer || '' }));
-    if (patch.introducer === 'mac' && (act === 'trial' || act === 'contract')) for (const c of macRefs()) postInbox(c, { kind: 'goen', from: S.myRef, fromName: S.me || 'ご縁の人', text: (S.me || 'ご縁の人') + 'さんが、コムギ（マー君）の紹介で' + (act === 'trial' ? 'ハタボのお試しをはじめました：' : 'ハタボを契約しました：') + title }, 'komugi').catch(() => {});
+    if (patch.introducer === 'mac' && (act === 'trial' || act === 'contract')) for (const c of macRefs()) postInbox(c, { kind: 'goen', from: S.myRef, fromName: S.me || 'ご縁の人', text: (S.me || 'ご縁の人') + 'さんが、コムギ（馬越さん）の紹介で' + (act === 'trial' ? 'ハタボのお試しをはじめました：' : 'ハタボを契約しました：') + title }, 'komugi').catch(() => {});
     gas(Object.assign({ action: 'lead', lead: { who: S.me, ref: await refLabel(S.refFrom || S.ref || ''), kind: '契約', title, need: kind, when: f.stage === 'trial' ? new Date(f.trialUntil).toLocaleDateString('ja-JP') + 'までお試し' : '', budget: f.price || '', next: act === 'cancel' ? 'お試しをやめた理由を聞く' : 'お支払いの登録を案内する', memo: '' } }, S.auth)).catch(() => {});
     if (act === 'trial') tellUpline(S, 'お試し（' + (f.lineupName || '') + '）をはじめました', 'trial').catch(() => {});
     if (act === 'contract') { tellUpline(S, (f.lineupName || '') + ' ' + (f.grade || '') + 'を契約しました', 'contract').catch(() => {}); putRef(S.myRef, { thanked: true }).catch(() => {}); }
@@ -1721,7 +1721,7 @@ function session(ws) {
           // 紹介から来た人は、紹介した人のアバターで（コムギの紹介ならコムギ）。リッチメニューのサービス相談と、役割を決めた窓口はそのまま
           if (S.guest && !S.agent && !S.visit && S.app !== 'komugi') {   // コムギのミニアプリは、ハタボのアバターの記録に引っぱられない
             if (S.role !== '汎用' && S.role !== 'サービス相談') {
-              // 役割を決めたURL（マー君の ?ref=mac など）で開いた人：そのアバターを自分のものとして覚える
+              // 役割を決めたURL（馬越さんの ?ref=mac など）で開いた人：そのアバターを自分のものとして覚える
               putRef(S.myRef, { avatar: S.avatar, avatarFixed: true }).catch(() => {});
             } else if (S.role === '汎用') {
               // ふだん：自分のアバターが決まっていればそれ。なければ、紹介した人（人の紹介コードだけ・3代まで）のアバターを引きつぐ
@@ -1758,12 +1758,12 @@ function session(ws) {
           let k = S.avatar === 'komugi', c = S.ref || S.refFrom;
           for (let i = 0; !k && c && i < 3; i++) { if (ENV.KOMUGI_REFS.includes(c)) k = true; else { const up = await getRef(c).catch(() => null); c = up && up.parent; } }
           if (k && !S.komugi && S.avatar === 'komugi') { S.komugi = true; S.system += komugiBlock(await komugiNews()); }
-          // コムギ：マー君本人なら制限なしの相棒。マー君の紹介の人には、マー君への橋渡し役に徹する
+          // コムギ：馬越さん本人なら制限なしの相棒。馬越さんの紹介の人には、馬越さんへの橋渡し役に徹する
           if (S.avatar === 'komugi' && !S.visit) {
             if (isMac(S.owner)) { S.macSelf = true; const nw = await komugiNews(); S.system += MAC_SELF_BLOCK + '\n\n【いま入っているコムギ通信（紹介の人に案内する分）】\n' + (nw || '（まだ入っていない）'); }
             else { S.bridge = true; S.system += KOMUGI_BRIDGE; if (!S.komugi) { S.komugi = true; S.system += komugiBlock(await komugiNews()); } }
           }
-          // 紹介の手数料のため：マー君（コムギ）経由で来た人に、紹介者「mac」を一度だけしるす（あとで契約を数える）
+          // 紹介の手数料のため：馬越さん（コムギ）経由で来た人に、紹介者「mac」を一度だけしるす（あとで契約を数える）
           if (S.myRef && !S.peek && (S.app === 'komugi' || k || S.avatar === 'komugi')) {
             const me0 = await getRef(S.myRef).catch(() => null);
             if (me0 && !me0.introducer && !isMac(S.owner)) putRef(S.myRef, { introducer: 'mac', introducedAt: Date.now() }).catch(() => {});
@@ -1786,8 +1786,8 @@ function session(ws) {
             if (S.newTurns >= 2) setTimeout(summarize, 3000);       // 前回まとめきれなかった分（強制で切ったときなど）
           }
         }
-        // ヒロさんの家族のジュニアと、マー君のコムギは、いつもClaudeと同じ（スーパー上位・答えの長さの決まりなし）
-        S.claude = !S.visit && ((ENV.CLAUDE_FAMILY && !S.guest && !S.asGuest) || !!superUntil(S.owner));   // マー君の紹介の人のコムギは、橋渡し役（制限つき）
+        // ヒロさんの家族のジュニアと、馬越さんのコムギは、いつもClaudeと同じ（スーパー上位・答えの長さの決まりなし）
+        S.claude = !S.visit && ((ENV.CLAUDE_FAMILY && !S.guest && !S.asGuest) || !!superUntil(S.owner));   // 馬越さんの紹介の人のコムギは、橋渡し役（制限つき）
         if ((S.avatar === 'hatabo' || S.avatar === 'komugi' || S.app) && !/【聞き取りのくせ】/.test(S.system)) S.system += HEAR_RULE;
         // ハタボの伝え先：招待した人がいればその人、いなければ「ハタボの事務局」（運営の個人の名前は出さない）
         if (S.avatar === 'hatabo' && !S.visit) {
@@ -1811,7 +1811,7 @@ function session(ws) {
       if (m.type === 'trio') return setTrio(!!m.on);
       if (m.type === 'plan') {                      // 料金プランのおためし：ヒロさんの家族の画面だけ（お客さんからは受けつけない）
         if (!S.claude && !superUntil(S.owner) && (S.guest || S.asGuest || S.mode !== 'family')) return;
-        S.planChosen = true;   // 期限つきの人（マー君など）は窓口でも自分で選べる
+        S.planChosen = true;   // 期限つきの人（馬越さんなど）は窓口でも自分で選べる
         S.plan = PLANS[m.plan] ? String(m.plan) : 'std';
         return send({ type: 'plan', plan: S.plan, label: PLANS[S.plan].label });
       }

diff --git a/butter/index.html b/butter/index.html
@@ -238,7 +238,7 @@ body.wideshow .sato-banner small { font-size: 12px; }
 .talking .hbWingL, .talking .hbWingR { animation: hbFlap .4s ease-in-out infinite; }
 .hbWingL { transform-origin: 164px 206px; transform-box: view-box; }
 @keyframes hbFlap { 50% { transform: rotate(-12deg); } }
-/* コムギ（マー君の窓口）の見た目 */
+/* コムギ（馬越さんの窓口）の見た目 */
 #komugiAv { display: none; }
 .av-komugi #butter > :not(#komugiAv) { display: none; }
 .av-komugi #komugiAv { display: inline; }
@@ -2599,7 +2599,7 @@ body.liffTall.av-komugi #hataboAv { transform: translateY(255px) scale(1.45); }
     // 紹介元（?ref=mac）・窓口のテスト（&test=guest）。LINEのURLから来たときは liff.state の中にあることもある
     const urlParam = n => { let v = new URLSearchParams(location.search).get(n) || Q.get(n); if (!v) { try { const st = new URLSearchParams(location.search).get('liff.state'); if (st) v = new URLSearchParams(decodeURIComponent(st).split('?')[1] || '').get(n); } catch (e) {} } return v; };
     let r0 = urlParam('ref');
-    if (!r0 && KOMUGI_APP) r0 = 'mac';   // コムギのミニアプリは、いつもコムギ（マー君の窓口）で開く
+    if (!r0 && KOMUGI_APP) r0 = 'mac';   // コムギのミニアプリは、いつもコムギ（馬越さんの窓口）で開く
     const peek = urlParam('test') === 'peek';   // 見るだけ（&test=peek）：自分の相棒やご縁を変えずに、紹介URLのアバターを確認する
     const asGuest = urlParam('test') === 'guest' || peek;
     const agent = urlParam('agent') === 'service' ? 'service' : '';   // 公式LINEのリッチメニュー「ハタボに相談」＝サービス相談
@@ -2640,7 +2640,7 @@ body.liffTall.av-komugi #hataboAv { transform: translateY(255px) scale(1.45); }
         J.guest = !!m.guest; J.avatar = m.avatar || ''; document.body.classList.toggle('av-komugi', J.avatar === 'komugi'); if (HATABO_APP && !J.avatar) J.avatar = 'hatabo'; document.body.classList.toggle('av-hatabo', J.avatar === 'hatabo'); { const t = document.querySelector('#butterTag text'), nm = { komugi: 'コムギ', hatabo: 'ハタボ' }[J.avatar]; if (t && nm) t.textContent = nm; } if (J.avatar === 'komugi') { const ib = document.getElementById('introBubble'); if (ib) ib.remove(); } if (J.avatar) { try { document.body.classList.toggle('hb-hatched', localStorage.getItem('hatched_' + J.avatar) === '1'); } catch (e) {} } $('goenBtn').hidden = J.guest; J.myRef = m.myRef || ''; J.me = String(m.me || '').replace(/（テスト）$/, ''); $('shareBtn').hidden = false;
         document.body.classList.toggle('familyok', !J.guest);
         document.body.classList.toggle('guestmode', J.guest);
-        if (J.guest) { $('typedInput').placeholder = J.avatar === 'komugi' ? 'マー君にしてほしいこと、なんでもどうぞ' : 'ヒロさんにしてほしいこと、なんでもどうぞ'; }
+        if (J.guest) { $('typedInput').placeholder = J.avatar === 'komugi' ? '馬越さんにしてほしいこと、なんでもどうぞ' : 'ヒロさんにしてほしいこと、なんでもどうぞ'; }
         $('trioBtn').hidden = false; J.trio = !!m.trio; store.set('jrTrio', J.trio); store.set('jrOK', true); trioShow();
         J.canPlan = !!m.canPlan;
         if (J.canPlan) jrSend({ type: 'plan', plan: store.get('jrPlan2', 'super') });
@@ -2650,7 +2650,7 @@ body.liffTall.av-komugi #hataboAv { transform: translateY(255px) scale(1.45); }
         if (awake.until !== 0) keepAwake(true, 0);
         jrMicStart().catch(() => { hint.textContent = 'マイクが使えません。LINEの設定でマイクを許可してください。'; });
         jrBtn(); if (!J.playing) setState('listening');
-        hint.textContent = J.guest ? (J.avatar === 'komugi' ? 'マー君の相棒の、コムギです……。気軽に、話しかけてもらえたら。' : J.avatar === 'hatabo' ? 'ハタボーだボー。そのまま話しかけてほしいボー。' : 'ヒロさんの相棒、ジュニアだぜ。そのまま話しかけてくんな。') : J.trio ? '三人モード：「ジュニア」と呼んだときだけ答えるよ。' : 'そのまま話しかけてね。話している途中でも、声をかけたら止まって聞くよ。';
+        hint.textContent = J.guest ? (J.avatar === 'komugi' ? '馬越 雅哉さんのAI棒の、コムギです……。気軽に、話しかけてもらえたら。' : J.avatar === 'hatabo' ? 'ハタボーだボー。そのまま話しかけてほしいボー。' : 'ヒロさんの相棒、ジュニアだぜ。そのまま話しかけてくんな。') : J.trio ? '三人モード：「ジュニア」と呼んだときだけ答えるよ。' : 'そのまま話しかけてね。話している途中でも、声をかけたら止まって聞くよ。';
         break;
       case 'partial':
         if (pickRes && nameIn(m.text)) break;
@@ -2680,7 +2680,7 @@ body.liffTall.av-komugi #hataboAv { transform: translateY(255px) scale(1.45); }
         break;
       case 'reply_end':
         if (m.gen !== J.gen) break;
-        if (J.out) J.out.textContent = m.text || J.outText || '（うまく答えられなかったよ。もう一回呼んでね）' + (m.why && J.canPlan ? '［原因：' + m.why + '］' : '');   // 制限なしの人（ヒロさん・マー君）には原因も出す
+        if (J.out) J.out.textContent = m.text || J.outText || '（うまく答えられなかったよ。もう一回呼んでね）' + (m.why && J.canPlan ? '［原因：' + m.why + '］' : '');   // 制限なしの人（ヒロさん・馬越さん）には原因も出す
         if (m.text && history.length && history[history.length - 1].role === 'user') { history.push({ role: 'assistant', content: m.text }); if (history.length > 12) history = history.slice(-12); }
         J.endEmo = m.emotion || 'smile';
         if (m.usage && J.out && J.out.parentElement && !HATABO_APP) { /* ハタボのアプリでは、グレード名・モデル名などを返事の下に出さない */ const u = m.usage, d = document.createElement('div'); d.className = 'usage'; d.textContent = u.plan + '・' + String(u.model || '').replace(/^claude-/, '') + '・入力' + u.in + (u.cache ? '（キャッシュ' + u.cache + '）' : '') + '／出力' + u.out + (u.searches ? '・検索' + u.searches : ''); J.out.parentElement.appendChild(d); }
@@ -2969,17 +2969,17 @@ body.liffTall.av-komugi #hataboAv { transform: translateY(255px) scale(1.45); }
   $('goenBtn').addEventListener('click', goenOpen);
   // 友だちに紹介する：送るURLには、押した人の紹介コードがつく（だれの紹介で来たかがわかる）
   // 紹介：カードタイプ（紺と白、エンブレム）で送る。送れないときは文字だけで
-  // コムギのアプリからの紹介：コムギの公式LINE・ミニアプリへ（紹介コードつき＝マー君の紹介として記録される）
+  // コムギのアプリからの紹介：コムギの公式LINE・ミニアプリへ（紹介コードつき＝馬越さんの紹介として記録される）
   function komugiShareCard(url) {
     const FACE = 'https://hiromitsu81.github.io/terakoya/butter/komugi_face.jpg';
-    return { type: 'flex', altText: 'マー君の相棒「コムギ」の紹介です', contents: { type: 'bubble', size: 'kilo',
+    return { type: 'flex', altText: '馬越 雅哉さんのAI棒「コムギ」の紹介です', contents: { type: 'bubble', size: 'kilo',
       styles: { header: { backgroundColor: '#0A0810' }, body: { backgroundColor: '#16121F' }, footer: { backgroundColor: '#16121F' } },
       header: { type: 'box', layout: 'horizontal', spacing: 'md', alignItems: 'center', paddingAll: '16px', contents: [
         { type: 'image', url: FACE, size: '52px', aspectMode: 'cover', aspectRatio: '1:1', flex: 0 },
-        { type: 'box', layout: 'vertical', contents: [{ type: 'text', text: 'コムギ', color: '#FFFFFF', weight: 'bold', size: 'xl' }, { type: 'text', text: 'マー君の相棒AI', color: '#1FD1F2', size: 'xxs', weight: 'bold' }] }] },
+        { type: 'box', layout: 'vertical', contents: [{ type: 'text', text: 'コムギ', color: '#FFFFFF', weight: 'bold', size: 'xl' }, { type: 'text', text: '馬越 雅哉さんのAI棒', color: '#1FD1F2', size: 'xxs', weight: 'bold' }] }] },
       body: { type: 'box', layout: 'vertical', spacing: 'sm', paddingAll: '16px', contents: [
-        { type: 'text', text: 'マー君へのご相談は、相棒のコムギが先にお聞きします。', wrap: true, size: 'sm', color: '#E9E4F5' },
-        { type: 'text', text: '話すだけで、マー君につながります。毎朝のコムギ通信も聞けます。', wrap: true, size: 'sm', color: '#A9A2BC' }] },
+        { type: 'text', text: '馬越さんへのご相談は、相棒のコムギが先にお聞きします。', wrap: true, size: 'sm', color: '#E9E4F5' },
+        { type: 'text', text: '話すだけで、馬越さんにつながります。毎朝のコムギ通信も聞けます。', wrap: true, size: 'sm', color: '#A9A2BC' }] },
       footer: { type: 'box', layout: 'vertical', paddingAll: '12px', contents: [{ type: 'button', style: 'primary', color: '#FF2E9A', height: 'sm', action: { type: 'uri', label: 'コムギと話す', uri: url } }] } } };
   }
   function shareCard(url) {
@@ -3003,7 +3003,7 @@ body.liffTall.av-komugi #hataboAv { transform: translateY(255px) scale(1.45); }
   async function shareHatabo() {
     // 紹介は、だれからでも汎用のハタボ（HATHA LABのミニアプリ）へ。紹介コードがあれば「だれの紹介か」もつける
     const url = MINI_URL + (J.myRef ? '?ref=' + encodeURIComponent(J.myRef) : '');
-    const text = KOMUGI_APP ? 'マー君の相棒AI「コムギ」です。マー君へのご相談は、コムギが先にお聞きしてつなぎます。話しかけてみてください。\n' + url : 'AIの愛棒「ハタボ」だよ。話すだけで、調べもの・下書き・相談までいっしょにやってくれるボー。気軽に話してみて！\n' + url;
+    const text = KOMUGI_APP ? '馬越 雅哉さんのAI棒「コムギ」です。馬越さんへのご相談は、コムギが先にお聞きしてつなぎます。話しかけてみてください。\n' + url : 'AIの愛棒「ハタボ」だよ。話すだけで、調べもの・下書き・相談までいっしょにやってくれるボー。気軽に話してみて！\n' + url;
     try {
       if (window.liff && liff.isApiAvailable && liff.isApiAvailable('shareTargetPicker')) {
         let r; try { r = await liff.shareTargetPicker([shareCard(url)]); } catch (e) { r = await liff.shareTargetPicker([{ type: 'text', text }]); }

diff --git a/butter/server/test/komugi.js b/butter/server/test/komugi.js
@@ -45,14 +45,14 @@ function client(port, hello) {
   assert.strictEqual(rm.avatar, 'komugi');
   for (let i = 0; i < 4; i++) { m.ws.send(JSON.stringify({ type: 'text', text: '調べて' + i })); await new Promise(r => setTimeout(r, 300)); }
   assert(!m.msgs.some(x => x.type === 'limit'), 'マー君は制限なし');
-  assert(/マー君本人/.test(lastSys) && !/橋渡し（いちばん大事）/.test(lastSys), 'マー君には相棒の決まり');
+  assert(/馬越 雅哉さん本人/.test(lastSys) && !/橋渡し（いちばん大事）/.test(lastSys), 'マー君には相棒の決まり');
   // マー君がコムギ通信を入れる → 紹介の人のコムギが案内できる
   m.ws.send(JSON.stringify({ type: 'text', text: 'コムギ通信に入れて：今日の速報は円安。たとえるなら、海外旅行のお小遣いが目減りする話。' }));
   await m.until(x => x.type === 'note_saved' && x.kind === 'news');
   const b = await client(port, { type: 'hello', idToken: 'bob', app: 'komugi', ref: 'mac' });
   await b.until(x => x.type === 'ready');
   b.ws.send(JSON.stringify({ type: 'text', text: '今日の速報は？' })); await new Promise(r => setTimeout(r, 300));
-  assert(/円安/.test(lastSys) && /マー君より/.test(lastSys), '紹介の人のコムギが、マー君の入れたコムギ通信を持っている');
+  assert(/円安/.test(lastSys) && /馬越さんより/.test(lastSys), '紹介の人のコムギが、マー君の入れたコムギ通信を持っている');
   b.ws.close();
   a.ws.close(); m.ws.close(); srv.close(); gasSrv.close();
   console.log('OK：コムギ（マー君は制限なし・紹介の人は橋渡しで制限つき・マー君の入れたコムギ通信を紹介の人に案内）');
